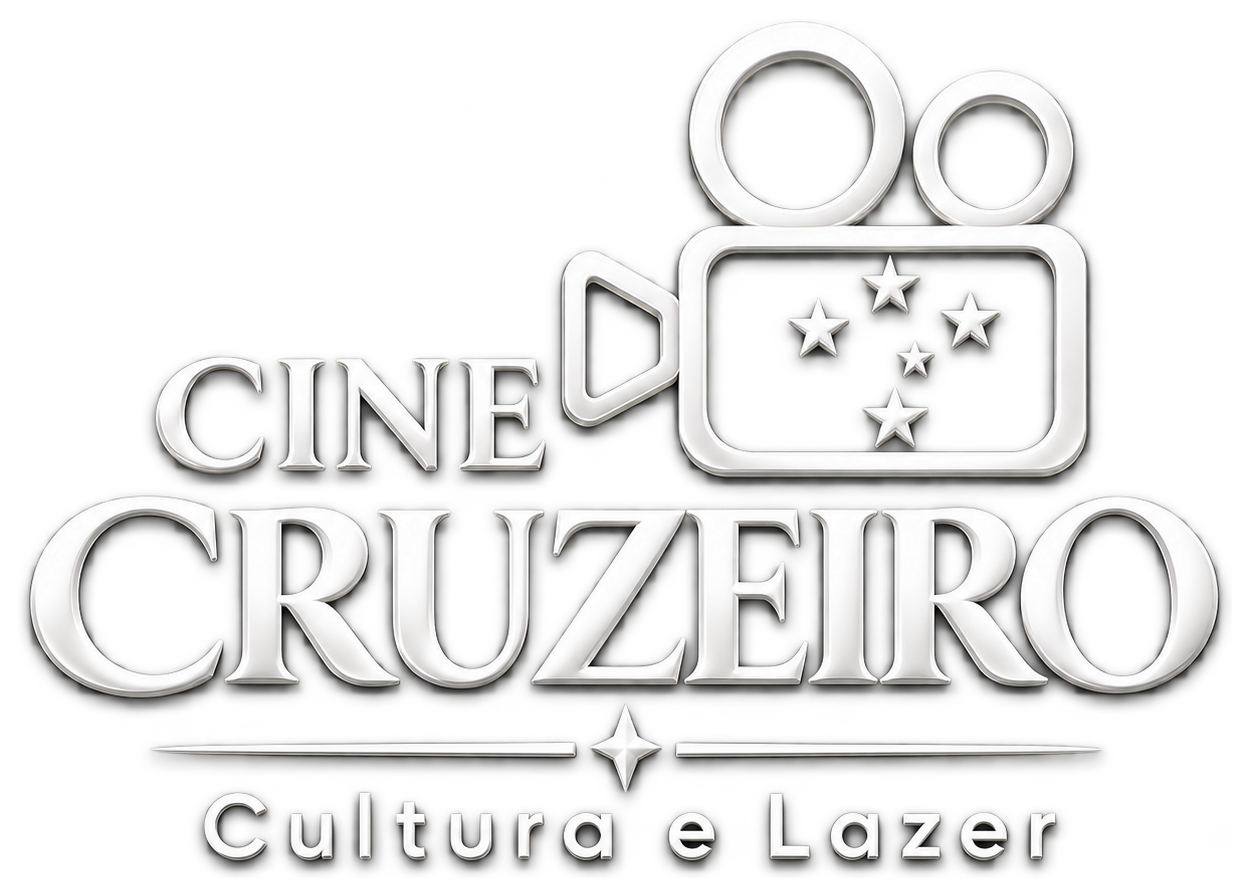
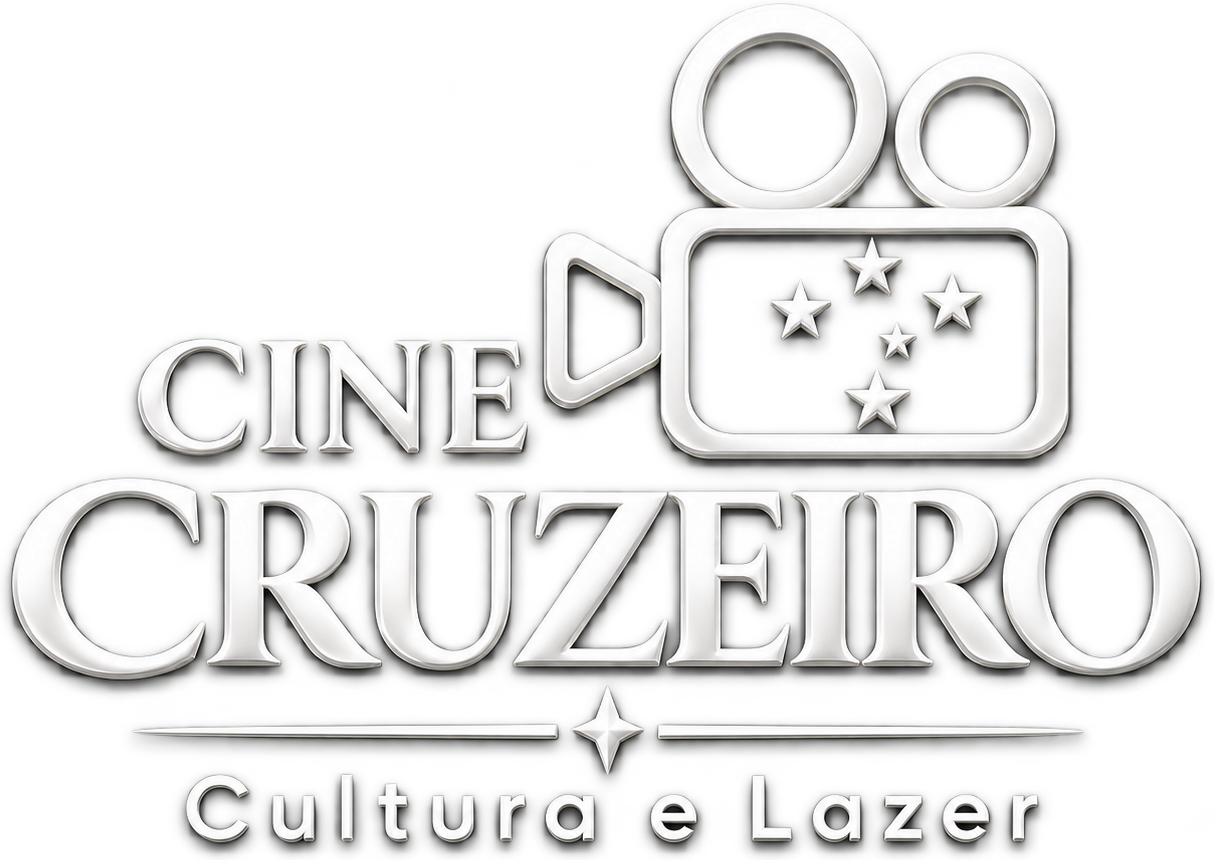
Atualiza marca prateada e remove placa da assinatura na programação

Changed region(s): [[0.0, 0.0302, 1.0, 0.9977]]

diff --git a/backend/public/admin-login.html b/backend/public/admin-login.html
@@ -81,7 +81,7 @@
   </head>
   <body>
     <main>
-      <img id="adminLoginLogo" src="../images/logo-display.webp?brand=cinecruzeiro-v2" alt="Cine Cruzeiro" width="320" height="183" />
+      <img id="adminLoginLogo" src="../images/logo-display.webp?brand=cinecruzeiro-silver-2026" alt="Cine Cruzeiro" width="320" height="227" />
       <h1>Painel Cine Cruzeiro</h1>
       <p>Entre com uma conta autorizada para gerenciar programação, vendas, bomboniere e validação de ingressos.</p>
       <form id="loginForm">
@@ -119,7 +119,7 @@
         return adminIndex > 0 ? pathname.slice(0, adminIndex) : "";
       })();
       const logo = document.getElementById("adminLoginLogo");
-      if (logo && ADMIN_BASE) logo.src = `${ADMIN_BASE}/images/logo-display.webp?brand=cinecruzeiro-v2`;
+      if (logo && ADMIN_BASE) logo.src = `${ADMIN_BASE}/images/logo-display.webp?brand=cinecruzeiro-silver-2026`;
       const form = document.getElementById("loginForm");
       const button = document.getElementById("submitButton");
       const verifyButton = document.getElementById("verifyButton");

diff --git a/src/components/SiteHeader.tsx b/src/components/SiteHeader.tsx
@@ -65,7 +65,7 @@ export function SiteHeader({ settings, mutedPrimaryAction = false, textPrimaryAc
       <div className="mx-auto flex h-20 max-w-[1320px] items-center justify-between px-4 sm:px-6 lg:px-8">
         <Link href="/" className="flex items-center" aria-label={brand.name}>
           <img
-            src={assetPath("/images/logo-header-compact.webp")}
+            src={assetPath("/images/logo-header-compact.webp?brand=cinecruzeiro-silver-2026")}
             alt={brand.name}
             width={112}
             height={64}
@@ -127,7 +127,7 @@ export function SiteFooter() {
       <div className="mx-auto grid max-w-[1320px] gap-6 px-4 py-7 sm:px-6 md:grid-cols-[1.25fr_1fr_1fr_1fr] lg:px-8">
         <div>
           <img
-            src={assetPath("/images/logo-header-compact.webp")}
+            src={assetPath("/images/logo-header-compact.webp?brand=cinecruzeiro-silver-2026")}
             alt={brand.name}
             width={112}
             height={64}

diff --git a/backend/services/social-studio/programming/builders.js b/backend/services/social-studio/programming/builders.js
@@ -61,7 +61,6 @@ function shell({draft,format,brand,palette,logoUrl}) {
   tx('cta',draft.cta,m,footer,w*.65,40*u,32,{minimum:26,maxLines:1});
   tx('website',(draft.actionDestination || draft.website || '').replace(/^https?:\/\//,'').replace(/\/$/,''),m,footer+48*u,w*.65,38*u,27,{minimum:24,maxLines:1});
   draft.signatureReserved={x:w*.76,y:bottom-86*u,width:w*.18,height:86*u};
-  if(logoUrl && light)elements.push({id:'program-logo-contrast',role:'decorative',type:'shape',x:draft.signatureReserved.x-12*u,y:draft.signatureReserved.y-8*u,width:draft.signatureReserved.width+24*u,height:draft.signatureReserved.height+16*u,fill:theme.ink,opacity:.88,locked:true});
   if(logoUrl)im('logo',logoUrl,...Object.values(draft.signatureReserved));
   else tx('cinema',brand.name,w*.77,bottom-70*u,w*.17,70*u,28,{minimum:24,hierarchy:'branding'});
   const contentTop=top+(singleDay?164:140)*u;

diff --git a/backend/server.js b/backend/server.js
@@ -8413,7 +8413,7 @@ function socialStudioBrand(db) {
     logoUrl: publicAssetUrl(configured.logoUrl || db.settings?.logoUrl || inherited.logoUrl || `${basePath}/images/logo-display.webp`),
     website: configured.website || appFrontendUrl(),
     posterWebsite: configured.posterWebsite || "www.cinecruzeiro.com.br",
-    posterLogoUrl: publicAssetUrl(configured.posterLogoUrl || "/images/social-studio/cine-cruzeiro-logo-3d.png"),
+    posterLogoUrl: publicAssetUrl(configured.posterLogoUrl || "/images/social-studio/cine-cruzeiro-assinatura-oficial.png"),
     primaryColor: configured.primaryColor || db.settings?.primaryColor,
     secondaryColor: configured.secondaryColor || db.settings?.secondaryColor,
     accentColor: configured.accentColor || db.settings?.accentColor,

diff --git a/src/app/layout.tsx b/src/app/layout.tsx
@@ -20,7 +20,7 @@ const siteOrigin = new URL(siteUrl).origin;
 const productionBasePath = process.env.NODE_ENV === "production" ? "/projects/cinecruzeiro" : "";
 const basePath = (process.env.NEXT_PUBLIC_BASE_PATH || productionBasePath).replace(/\/+$/, "");
 const publicUrl = `${siteOrigin}${basePath}`;
-const logoUrl = `${basePath}/images/logo-display.webp`;
+const logoUrl = `${basePath}/images/logo-display.webp?brand=cinecruzeiro-silver-2026`;
 const iconUrl = `${basePath}/images/favicon-64.png`;
 const cinemaTheme = process.env.NEXT_PUBLIC_CINEMA_SLUG || "default";
 export const metadata: Metadata = {

diff --git a/backend/public/admin.html b/backend/public/admin.html
@@ -15,7 +15,7 @@
         <svg viewBox="0 0 24 24" aria-hidden="true"><path d="M4 6h16M4 12h16M4 18h16"/></svg>
       </button>
       <div class="brand">
-        <img id="adminLogoImg" src="../images/logo-display.webp?brand=cinecruzeiro-v2" alt="Cine Cruzeiro" width="320" height="183" />
+        <img id="adminLogoImg" src="../images/logo-display.webp?brand=cinecruzeiro-silver-2026" alt="Cine Cruzeiro" width="320" height="227" />
         <div>
           <strong>Console Cine Cruzeiro</strong>
           <span>Programação, vendas e operação</span>

diff --git a/src/components/Footer.tsx b/src/components/Footer.tsx
@@ -16,7 +16,7 @@ export function Footer() {
           <div className="space-y-4">
             <div className="flex items-center gap-3">
               <img
-                src={assetPath("/images/logo-header-compact.webp")}
+                src={assetPath("/images/logo-header-compact.webp?brand=cinecruzeiro-silver-2026")}
                 alt="Cine Cruzeiro - Cultura e Lazer"
                 className="h-12 w-auto object-contain drop-shadow-md"
               />

diff --git a/backend/public/admin.js b/backend/public/admin.js
@@ -13456,7 +13456,7 @@ function restoreActivePointPayment() {
 
 async function initAdmin() {
   const logo = $("adminLogoImg");
-  if (logo && API_BASE) logo.src = `${API_BASE}/images/logo-display.webp?brand=cinecruzeiro-v2`;
+  if (logo && API_BASE) logo.src = `${API_BASE}/images/logo-display.webp?brand=cinecruzeiro-silver-2026`;
   bindEvents();
   setupPerformanceControls();
   setBoxOfficeTab("newSale");

diff --git a/backend/public/admin.css b/backend/public/admin.css
@@ -137,10 +137,10 @@ svg text {
 }
 
 .brand img {
-  width: clamp(92px, 11vw, 136px);
-  height: auto;
+  width: auto;
+  height: 64px;
   display: block;
-  filter: drop-shadow(0 10px 20px rgba(37, 99, 235, 0.25));
+  filter: drop-shadow(0 3px 8px rgba(0, 0, 0, 0.35));
 }
 
 .brand strong {
@@ -7555,6 +7555,7 @@ th {
 
   .brand img {
     width: 88px;
+    height: auto;
   }
 
   .workspace {
